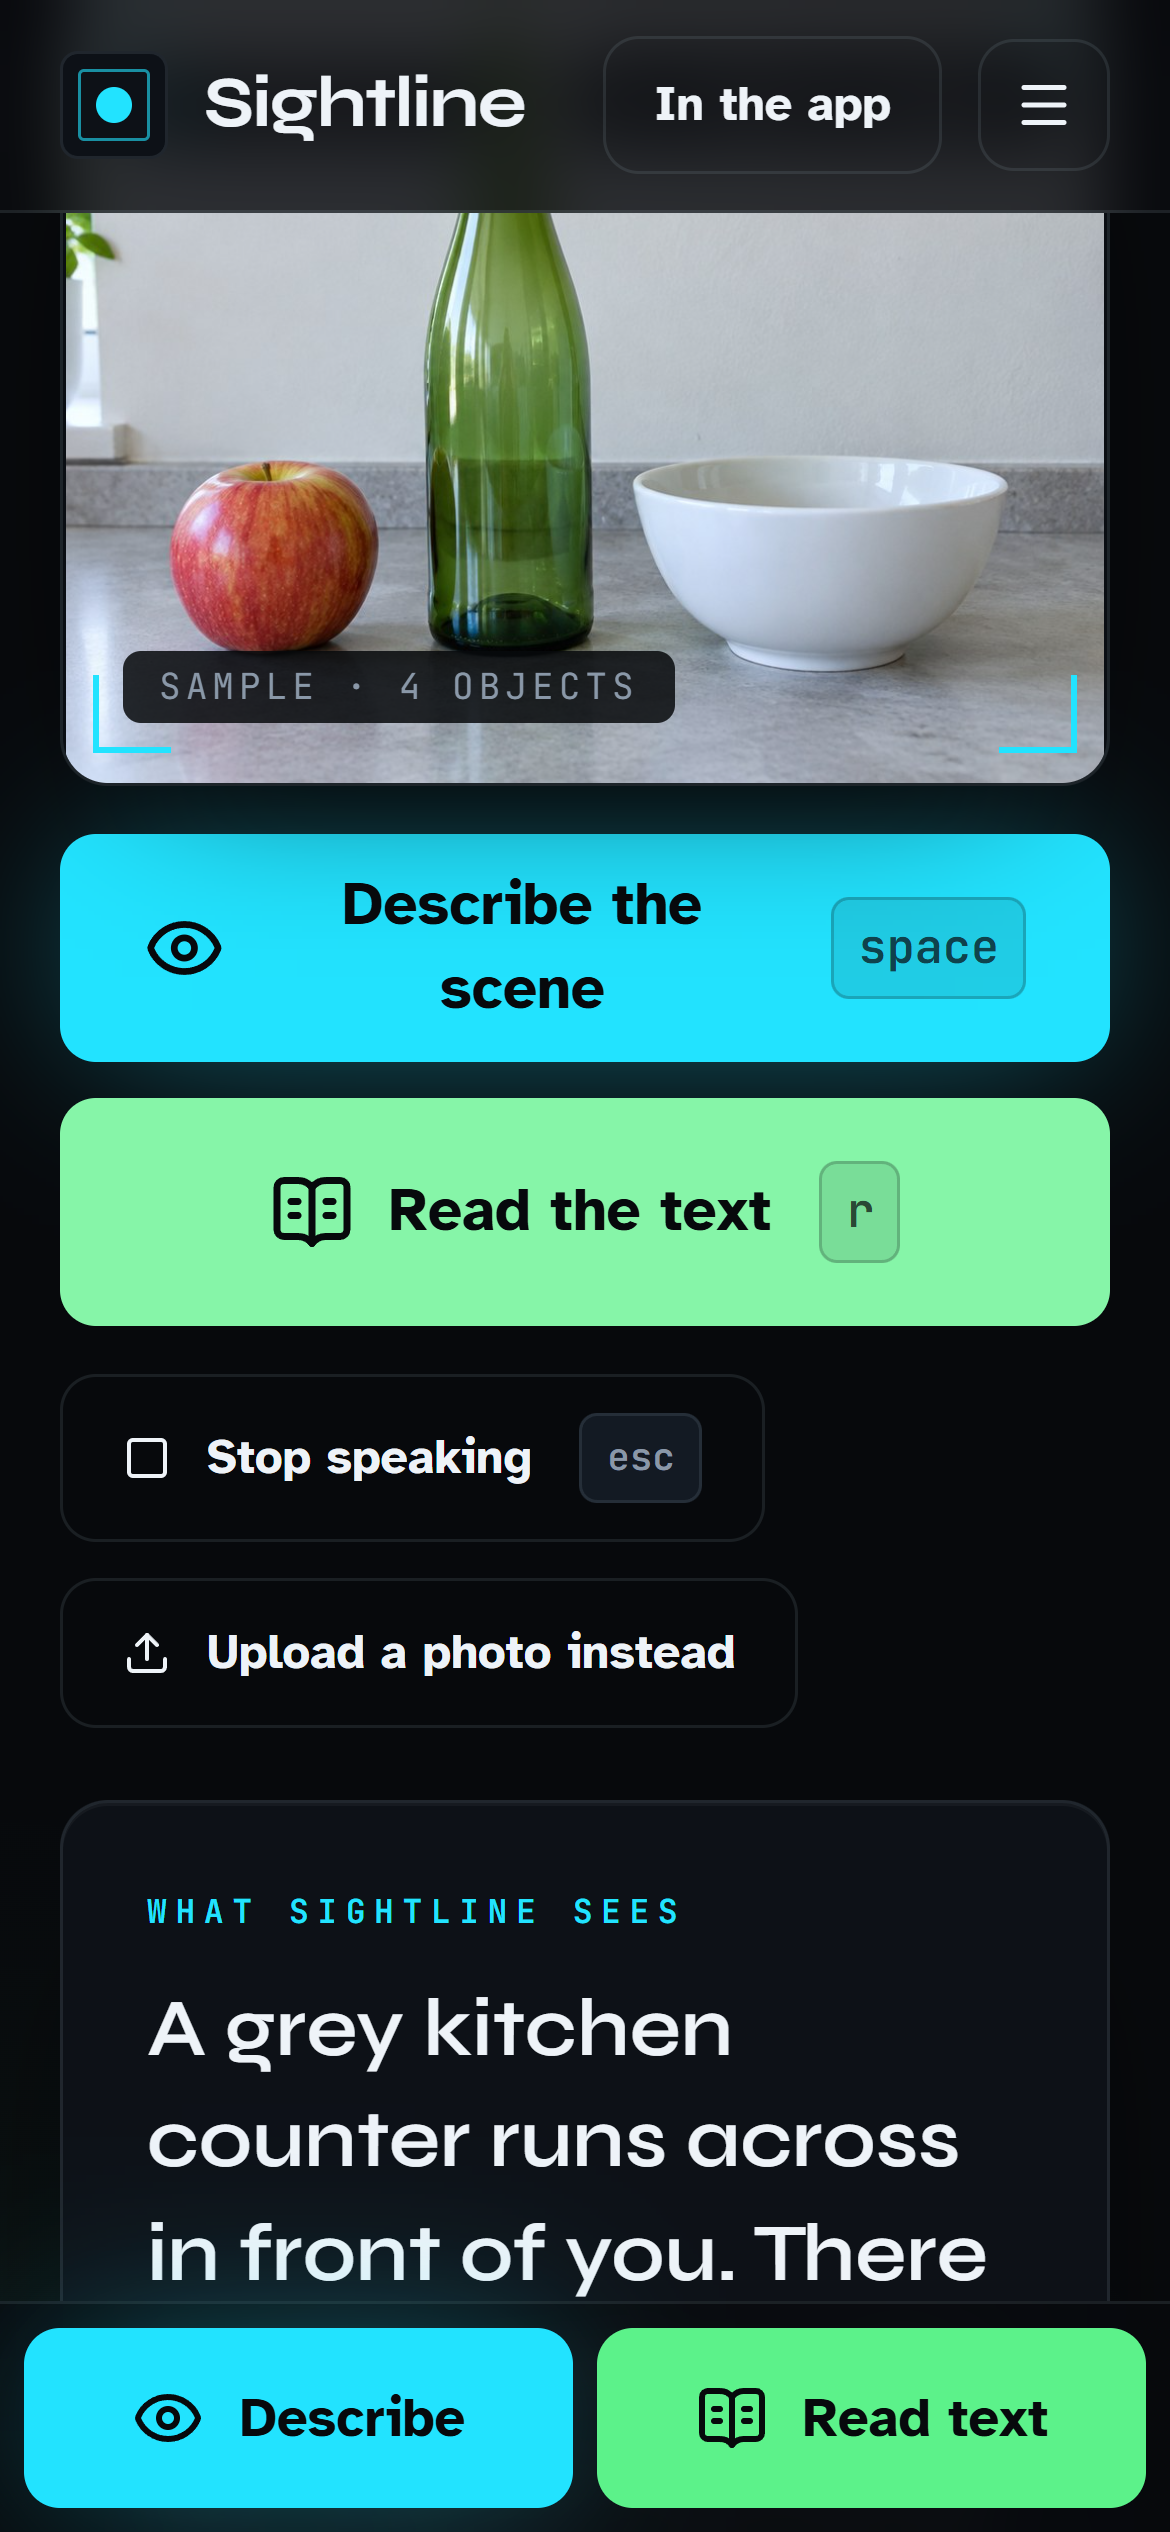
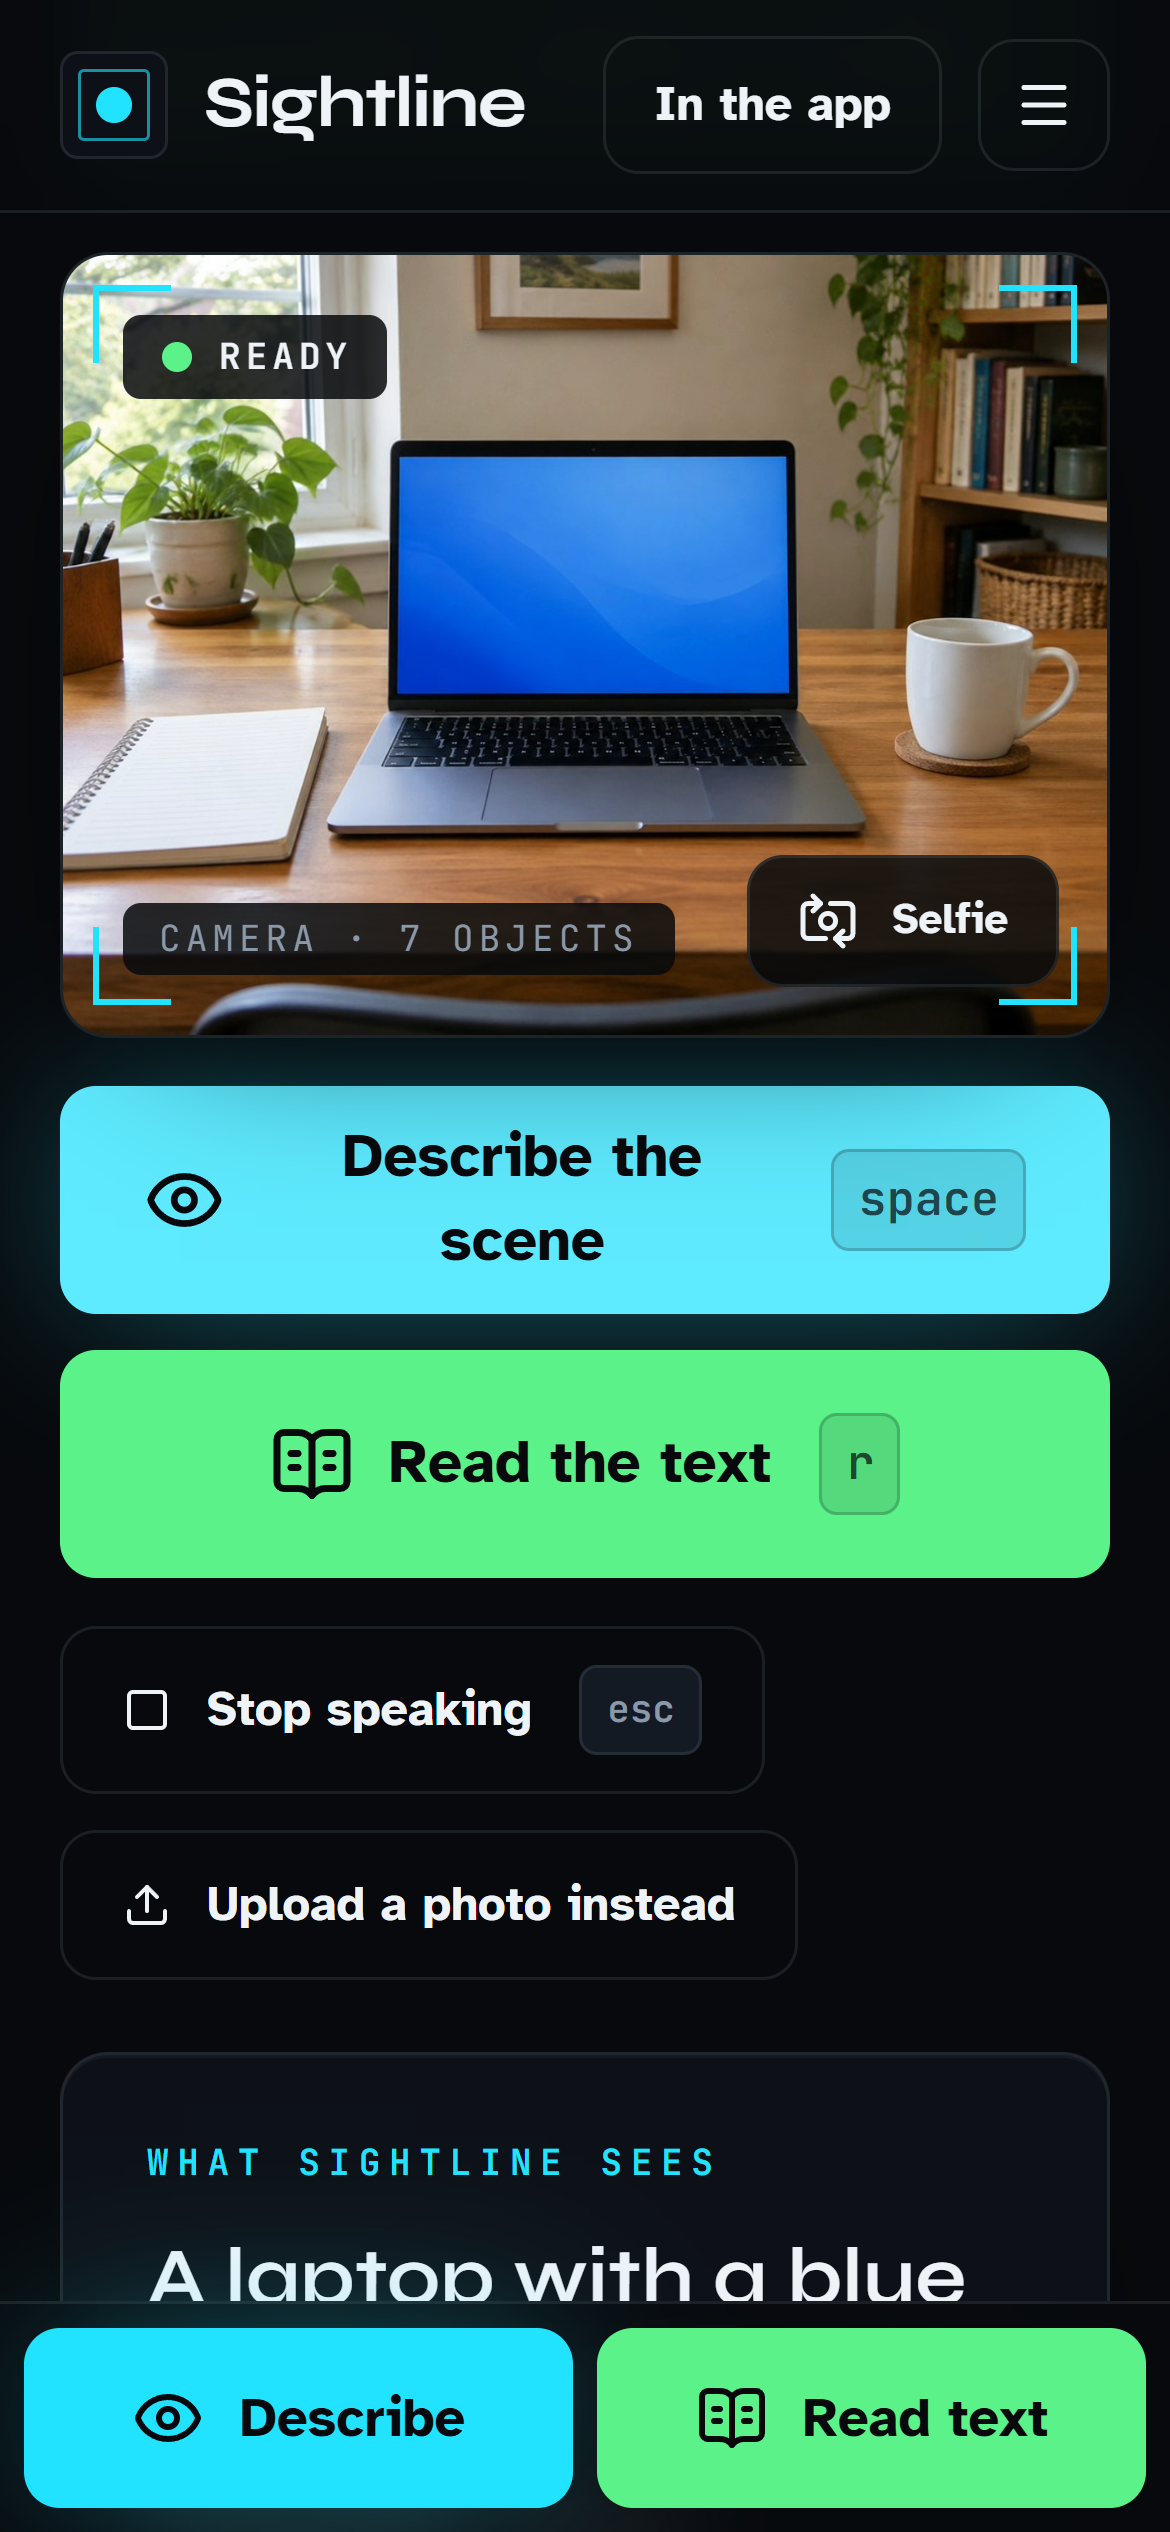
README: app screenshots with the live camera view and the Selfie button

diff --git a/README.md b/README.md
@@ -28,7 +28,7 @@ Created by **Ali Hadi Meselmani**
 <br/>
 
 <a href="https://sightline-rho-khaki.vercel.app/app">
-  <img src="docs/screenshot-app.png" alt="The Sightline app page: a notice that the page uses your camera and nothing is saved, the field for your own Gemini key showing Key accepted, a live status strip, a viewfinder with corner brackets showing a sample sign, the sign's text read back in large type, and the Describe the scene and Read the text buttons." width="100%">
+  <img src="docs/screenshot-app.png" alt="The Sightline app page: a notice that the page uses your camera and nothing is saved, the key field showing Key accepted, a live status strip, the live camera view of a desk inside corner brackets with a Selfie button to flip the camera, the scene described in large type with object tags, and the Describe the scene and Read the text buttons." width="100%">
 </a>
 
 </div>
@@ -45,7 +45,7 @@ language, with directions like *"to your left"* and *"in front of you"*.
 |---|---|
 | ![Landing page: Point. Press. Hear. beside a viewfinder showing a real desk photo with detection boxes](docs/landing.png) | ![Capabilities grid: scene detection, read mode, only what changed, manual capture, no guessing about people, free-tier limits](docs/capabilities.png) |
 | ![About page with what it is, how a description happens, privacy rules, limits and the speech chain](docs/about.png) | ![Privacy page listing the three non-negotiable rules and the formal policy](docs/privacy.png) |
-| ![App page on a phone: sample in the viewfinder, result in large type, sticky Describe and Read bar at the bottom](docs/app-phone.png) | ![Desktop app window: live frame with FPS and state overlay, the full description in a panel underneath](docs/desktop-app.png) |
+| ![App page on a phone: live camera view with the Selfie flip button, the description in large type, and the sticky Describe and Read bar at the bottom](docs/app-phone.png) | ![Desktop app window: live frame with FPS and state overlay, the full description in a panel underneath](docs/desktop-app.png) |
 
 The desktop window is rendered by the app's own drawing code from a sample frame, so it shows exactly what the camera window looks like without exposing a real camera feed.
 
